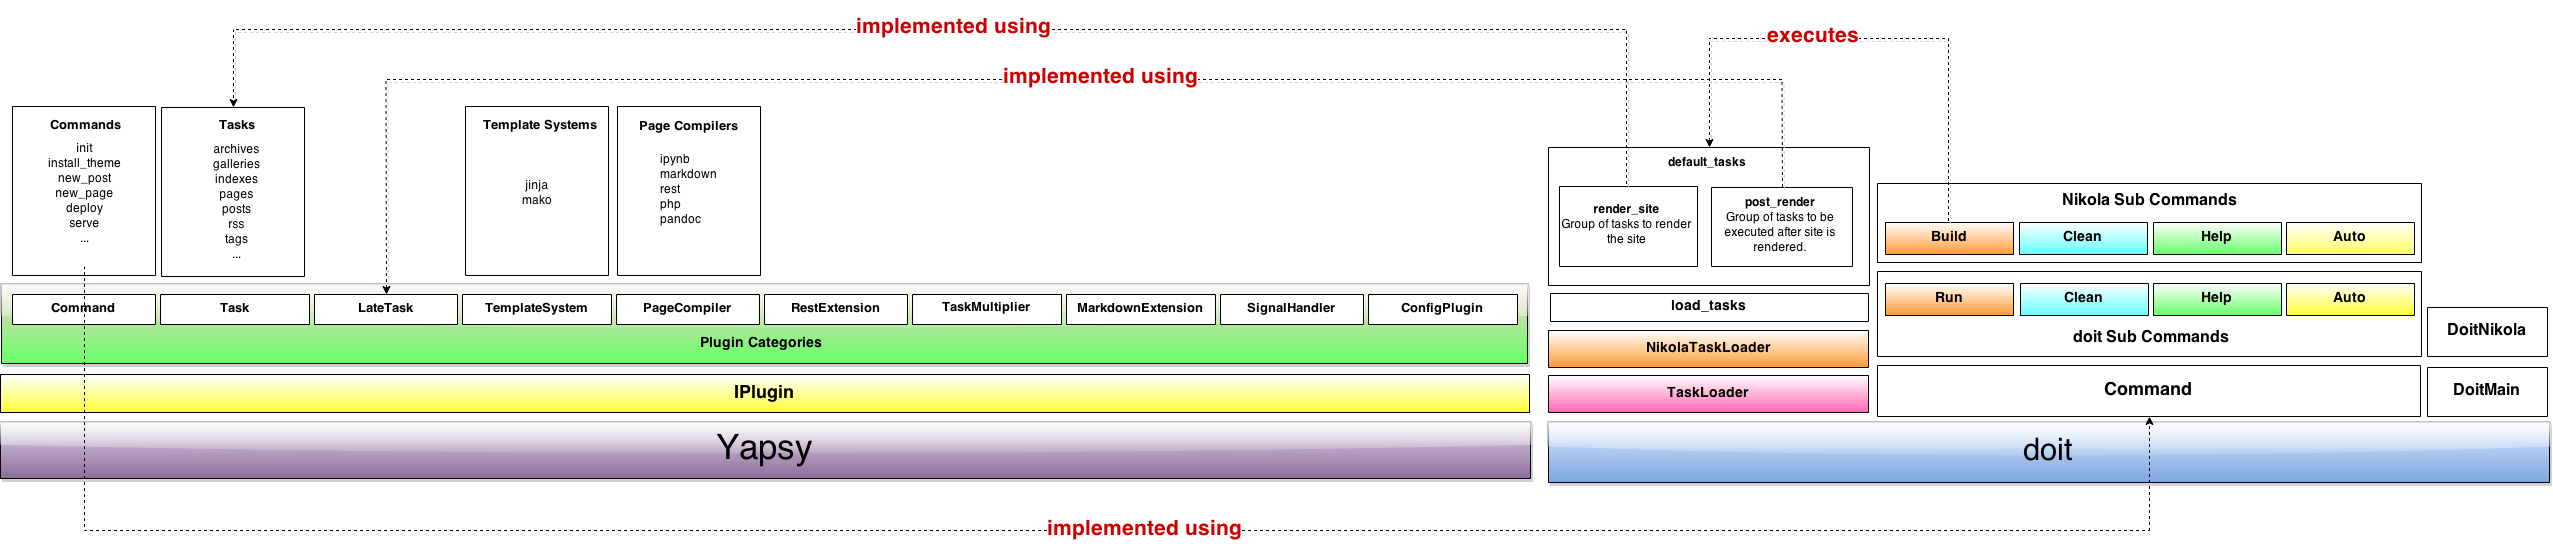
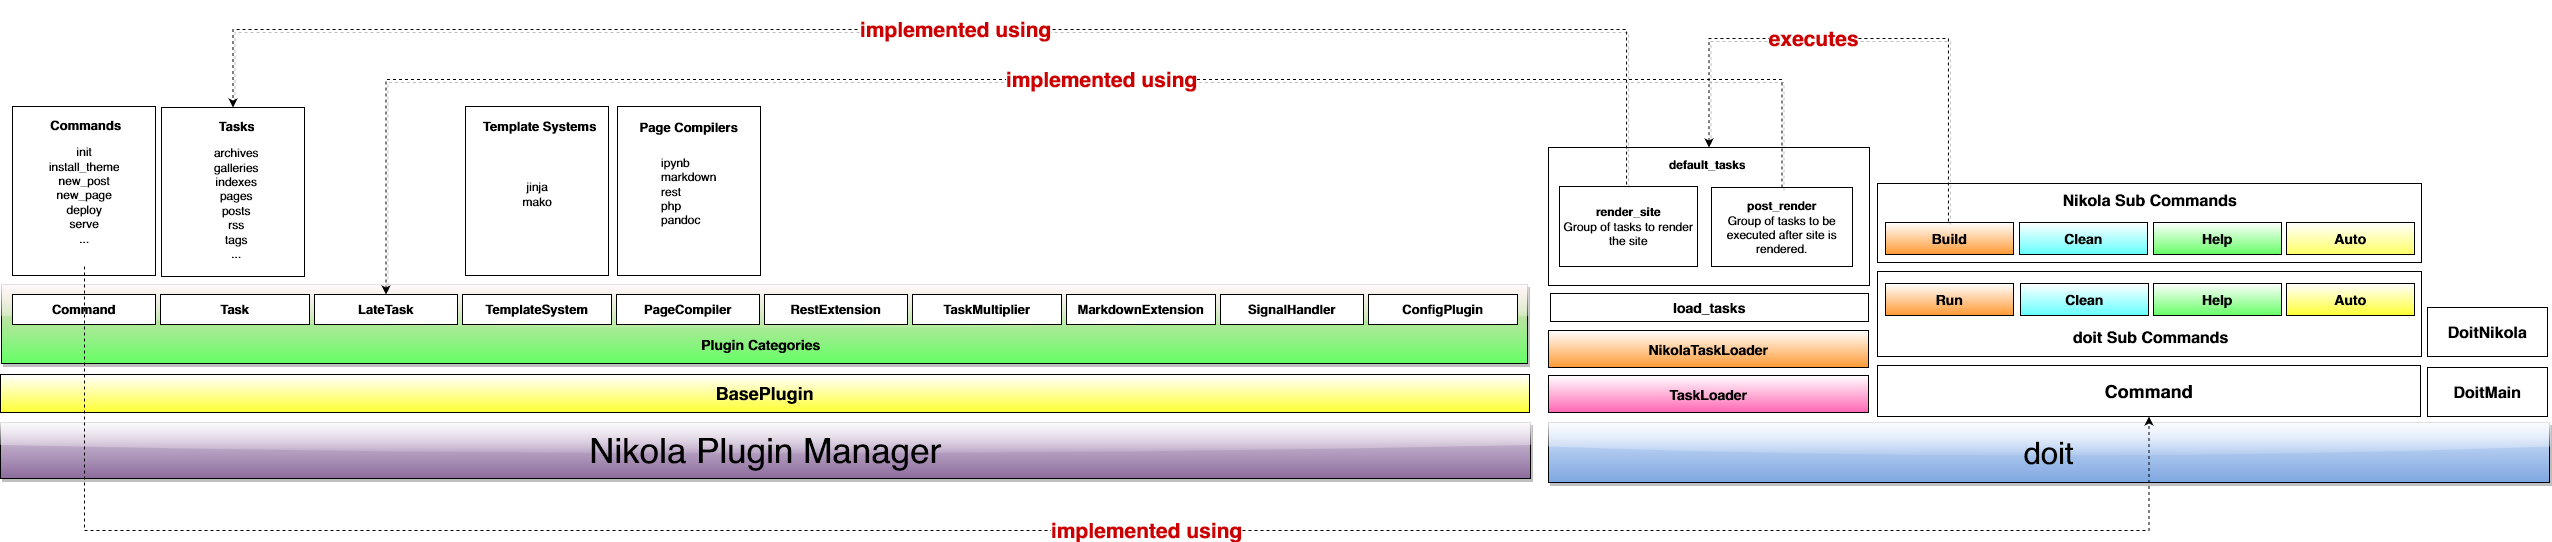
Nikola v8.3.0

diff --git a/conf.py b/conf.py
@@ -129,7 +129,7 @@ LICENSE = """
     src="https://i.creativecommons.org/l/by-nc-sa/2.5/ar/88x31.png"></a>"""
 
 # A small copyright notice for the page footer
-CONTENT_FOOTER = '''Contents © 2012–2023 <a href="/contact.html">Roberto Alsina and the Nikola contributors</a>&nbsp;&nbsp;|&nbsp;&nbsp;Powered by Nikola itself&nbsp;&nbsp;|&nbsp;&nbsp;
+CONTENT_FOOTER = '''Contents © 2012–2024 <a href="/contact.html">Roberto Alsina and the Nikola contributors</a>&nbsp;&nbsp;|&nbsp;&nbsp;Powered by Nikola itself&nbsp;&nbsp;|&nbsp;&nbsp;
 <a href="https://twitter.com/intent/user?screen_name=GetNikola">Follow Nikola on Twitter</a>&nbsp;&nbsp;|&nbsp;&nbsp;Theme is <a href="https://bootswatch.com/cerulean/">Cerulean</a>
 '''
 

diff --git a/listings/conf.py b/listings/conf.py
@@ -1018,7 +1018,8 @@ RSS_COPYRIGHT_FORMATS = CONTENT_FOOTER_FORMATS
 
 # To use comments, you can choose between different third party comment
 # systems.  The following comment systems are supported by Nikola:
-#   disqus, facebook, intensedebate, isso, muut, commento, utterances
+#   disqus, discourse, facebook, intensedebate, isso, muut, commento,
+#   utterances
 # You can leave this option blank to disable comments.
 COMMENT_SYSTEM = "disqus"
 # And you also need to add your COMMENT_SYSTEM_ID which

diff --git a/stories/manual.rst b/stories/manual.rst
@@ -7,7 +7,7 @@
 .. has_math: true
 .. author: The Nikola Team
 
-:Version: 8.2.4
+:Version: 8.3.0
 
 .. class:: alert alert-primary float-md-right
 
@@ -1909,6 +1909,7 @@ are probably expecting: comments.
 Nikola supports several third party comment systems:
 
 * `DISQUS <https://disqus.com>`_
+* `Discourse <https://discourse.com>`_
 * `IntenseDebate <https://www.intensedebate.com/>`_
 * `Muut (Formerly moot) <https://muut.com/>`_
 * `Facebook <https://facebook.com/>`_
@@ -1936,6 +1937,7 @@ It is also possible to use a comment system added by a plugin, see the
      Punycode (if using Internationalized Domain Names) and **have a trailing slash**,
      default ``http://localhost:8080/``). You can add custom config options via
      ``GLOBAL_CONTEXT``, e.g., ``GLOBAL_CONTEXT['isso_config'] = {"require-author": "true"}``
+   * For Discourse, it's the forum instance (must be world-accessible)  and **have a trailing slash**.
    * For Commento, it's the URL of the commento instance as required by the ``serverUrl``
      parameter in commento's documentation.
    * For Utterances, it's the **repo name** (``"org/user"``) on GitHub whose

diff --git a/stories/internals.rst b/stories/internals.rst
@@ -15,7 +15,7 @@ So, this is a short document explaining what each piece of Nikola does and
 how it all fits together.
 
 Nikola is a Pile of Plugins
-    Most of Nikola is implemented as plugins using `Yapsy <http://yapsy.sourceforge.net/>`_.
+    Most of Nikola is implemented as plugins (using a custom plugin manager inspired by Yapsy).
     You can ignore that they are plugins and just think of them as regular python
     modules and packages with a funny little ``.plugin`` file next to them.
 
@@ -65,7 +65,7 @@ basename:name
 
    If you ever want to do your own tasks, you really should read the doit
    `documentation on tasks <https://pydoit.org/tasks.html>`_.
-   
+
    Notably, by default doit redirects ``stdout`` and ``stderr``. To get a
    proper PDB debugging shell, you need to use doit's own
    `set_trace <https://pydoit.org/tools.html#set-trace>`_ function.

diff --git a/stories/conf.rst b/stories/conf.rst
@@ -1,11 +1,11 @@
-.. title: Nikola v8.2.4 configuration file
+.. title: Nikola v8.3.0 configuration file
 .. slug: conf
 .. date: 2014-11-08 18:51:30 UTC
 .. description: The Nikola configuration file.
 .. type: text
 .. author: The Nikola Team
 
-The default config file for Nikola v8.2.4 is reproduced below.
+The default config file for Nikola v8.3.0 is reproduced below.
 
 .. raw:: html
 

diff --git a/stories/template-variables.rst b/stories/template-variables.rst
@@ -3,7 +3,7 @@
 .. date: 2017-04-13 12:00:00
 .. author: The Nikola Team
 
-:Version: 8.2.4
+:Version: 8.3.0
 :Author: Chris Warrick <chris@getnikola.com>
 
 Variables available in templates are listed below.

diff --git a/stories/extending.rst b/stories/extending.rst
@@ -6,7 +6,7 @@
 .. description:
 .. author: The Nikola Team
 
-:Version: 8.2.4
+:Version: 8.3.0
 :Author: Roberto Alsina <ralsina@netmanagers.com.ar>
 
 .. class:: alert alert-primary float-md-right

diff --git a/stories/theming.rst b/stories/theming.rst
@@ -6,7 +6,7 @@
 .. description:
 .. author: The Nikola Team
 
-:Version: 8.2.4
+:Version: 8.3.0
 :Author: Roberto Alsina <ralsina@netmanagers.com.ar>
 
 .. class:: alert alert-primary float-md-right

diff --git a/stories/support.rst b/stories/support.rst
@@ -4,7 +4,7 @@
 .. description: Get help using Nikola, or contact us.
 .. author: The Nikola Team
 
-:Version: 8.2.4
+:Version: 8.3.0
 
 .. class:: alert alert-primary float-md-right
 

diff --git a/stories/social_buttons.rst b/stories/social_buttons.rst
@@ -6,7 +6,7 @@
 .. description:
 .. author: The Nikola Team
 
-:Version: 8.2.4
+:Version: 8.3.0
 
 .. class:: alert alert-primary float-md-right
 
